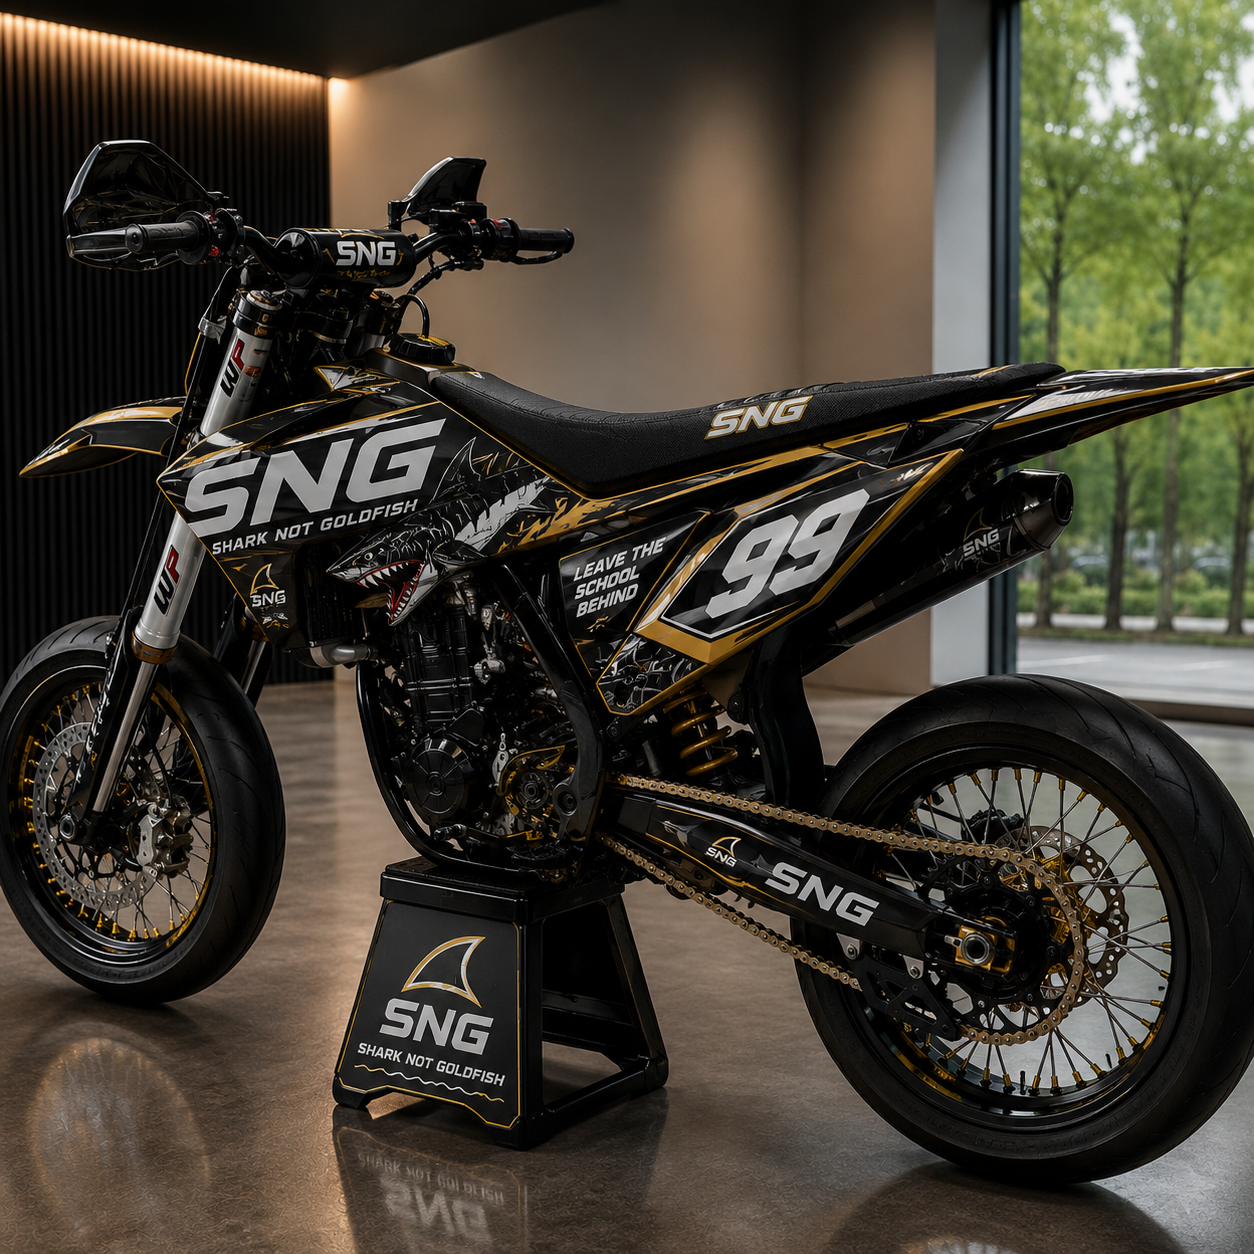
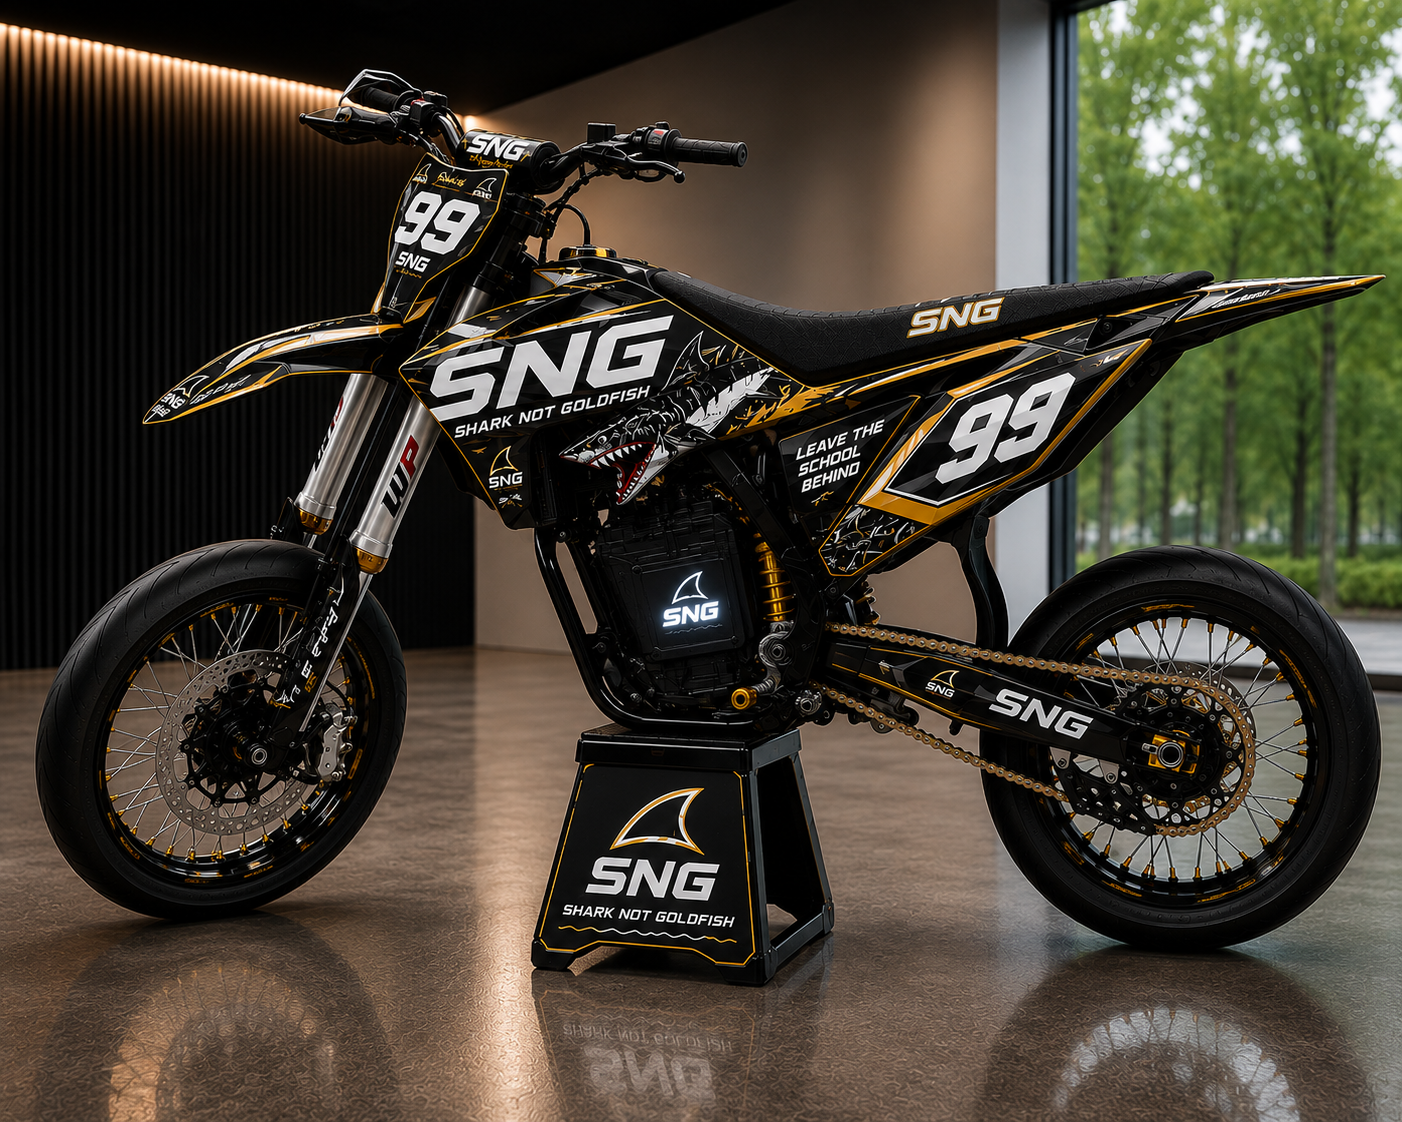
Restore Mako with correct image (black/gold #99)

diff --git a/cycles.html b/cycles.html
@@ -515,6 +515,13 @@ footer {
 
 <!-- MODEL OVERVIEW GRID -->
 <div class="model-grid">
+  <a href="#mako" class="model-grid-card">
+    <img src="mako.png" alt="Mako">
+    <div class="mgc-label" style="color:var(--orange);">SNG Cycles · Flagship</div>
+    <div class="mgc-name">Mako</div>
+    <div class="mgc-price" style="color:var(--orange);">$21,000+</div>
+    <div class="mgc-cta">Explore →</div>
+  </a>
   <a href="#megalodon" class="model-grid-card">
     <img src="megalodon.png" alt="Megalodon 520E">
     <div class="mgc-label" style="color:var(--orange);">52kW Supermoto</div>
@@ -550,6 +557,29 @@ footer {
     <div class="mgc-price" style="color:#c9a84c;">Reserve Now</div>
     <div class="mgc-cta" style="color:#c9a84c;">Explore →</div>
   </a>
+</div>
+
+<!-- MAKO -->
+<div class="vehicle" id="mako">
+  <div class="vehicle-inner">
+    <div class="vehicle-img">
+      <span class="vehicle-badge" style="background:var(--orange);color:#fff;">Flagship</span>
+      <img src="mako.png" alt="SNG Mako">
+    </div>
+    <div class="vehicle-info">
+      <div class="vehicle-division" style="color:var(--orange);">SNG Cycles · Electric Supermoto</div>
+      <div class="vehicle-name">Mako</div>
+      <div class="vehicle-tagline">The Hunter. 27kW mid-drive. WP XACT forks. Built for riders 6'0"–7'0"+. The machine nobody else would build for tall riders.</div>
+      <div class="vehicle-specs">
+        <div class="spec-item"><div class="spec-label">Power</div><div class="spec-val">27kW</div></div>
+        <div class="spec-item"><div class="spec-label">Suspension</div><div class="spec-val">WP XACT</div></div>
+        <div class="spec-item"><div class="spec-label">Seat Height</div><div class="spec-val">39"–43"</div></div>
+        <div class="spec-item"><div class="spec-label">Built For</div><div class="spec-val">Tall Riders</div></div>
+      </div>
+      <div class="vehicle-price" style="color:var(--orange);">$21,000 – $30,000</div>
+      <button class="reserve-btn" style="background:var(--orange);" onclick="openDeposit('Mako','$21,000 – $30,000')">Leave a Deposit — Mako →</button>
+    </div>
+  </div>
 </div>
 
 <!-- MEGALODON 520E -->
@@ -831,6 +861,12 @@ function submitReserve() {
 /* ── PRODUCT MODAL ── */
 var currentProduct = null;
 var PRODUCTS = {
+  'mako': {
+    badge:'SNG Cycles · Flagship', name:'Mako', sub:'Electric Supermoto — The Hunter',
+    price:'$21,000 – $30,000', image:'mako.png',
+    desc:'27kW mid-drive. WP XACT forks. 39"–43" adjustable seat height. Built for riders 6\'0"–7\'0"+. Black and gold flagship edition. #99. Leave the School Behind.',
+    orderLabel:'Reserve Your Mako', orderItem:'Mako Reservation'
+  },
   'megalodon': {
     badge:'SNG Cycles · 52kW Supermoto', name:'Megalodon 520E', sub:'Leave the School Behind™',
     price:'$26,495', image:'megalodon.png',
@@ -891,6 +927,7 @@ function modalOrder() {
 
 /* ── DEPOSIT MODAL ── */
 var DEPOSIT_INFO = {
+  'Mako':                    { deposit: '$10,500',  full: 'Full price from $21,000 · Balance due at delivery' },
   'Megalodon 520E':          { deposit: '$13,248',  full: 'Full price $26,495 · Balance due at delivery' },
   'Great White':             { deposit: '$17,500',  full: 'Full price from $35,000 · Balance due at delivery' },
   'Platinum 520E — Limited': { deposit: '$20,000',  full: 'Full price $40,000 · Balance due at delivery · Limited 30 units' },

diff --git a/gear.html b/gear.html
@@ -899,6 +899,17 @@ footer {
       <div style="font-size:15px;color:var(--muted);margin-bottom:48px;">All electric. All built different. Reserve yours now — production slots go to the list first.</div>
       <div style="display:grid;grid-template-columns:repeat(auto-fill,minmax(320px,1fr));gap:28px;">
 
+        <a href="cycles.html#mako" style="background:var(--card);border:1px solid var(--border);border-radius:14px;overflow:hidden;cursor:pointer;transition:border-color 0.2s;text-decoration:none;display:block;" onmouseover="this.style.borderColor='var(--orange)'" onmouseout="this.style.borderColor='var(--border)'">
+          <img src="mako.png" alt="SNG Mako" style="width:100%;aspect-ratio:16/9;object-fit:cover;display:block;">
+          <div style="padding:24px;">
+            <div style="font-size:10px;color:var(--orange);font-weight:900;letter-spacing:2px;text-transform:uppercase;margin-bottom:6px;">SNG Cycles · Flagship</div>
+            <div style="font-size:22px;font-weight:900;text-transform:uppercase;color:var(--text);margin-bottom:4px;">Mako</div>
+            <div style="font-size:13px;color:var(--muted);margin-bottom:16px;">Electric Supermoto — 27kW · WP XACT Forks · Built for tall riders</div>
+            <div style="font-size:20px;font-weight:900;color:var(--orange);margin-bottom:16px;">$21,000 – $30,000</div>
+            <div style="width:100%;background:var(--orange);color:#fff;border:none;padding:12px;border-radius:8px;font-weight:900;font-size:13px;letter-spacing:1px;text-transform:uppercase;text-align:center;">Leave a Deposit →</div>
+          </div>
+        </a>
+
         <a href="cycles.html#megalodon" style="background:var(--card);border:1px solid var(--border);border-radius:14px;overflow:hidden;cursor:pointer;transition:border-color 0.2s;text-decoration:none;display:block;" onmouseover="this.style.borderColor='var(--orange)'" onmouseout="this.style.borderColor='var(--border)'">
           <img src="megalodon.png" alt="SNG Megalodon 520E" style="width:100%;aspect-ratio:16/9;object-fit:cover;display:block;">
           <div style="padding:24px;">
@@ -1234,6 +1245,12 @@ var PRODUCTS = {
     payhipUrl:'https://payhip.com/b/mf3R4'
   },
   /* ── BIKES ── */
+  'mako': {
+    badge:'SNG Cycles · Flagship', name:'Mako', sub:'Electric Supermoto — The Hunter',
+    price:'$21,000 – $30,000', image:'mako.png',
+    desc:'27kW mid-drive. WP XACT forks. 39"–43" adjustable seat height. Built for riders 6\'0"–7\'0"+. Black and gold flagship edition. #99. Leave the School Behind.',
+    selectors:[], orderLabel:'Reserve Your Mako', orderItem:'Mako Reservation'
+  },
   'great-white': {
     badge:'SNG Cycles · Stunt Platform', name:'Great White', sub:'Electric Stunt Platform — Shark Jaw™',
     price:'$35,000 – $40,000', image:'great-white-clean.png',
